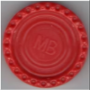
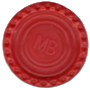
Gestion de l'égalité

diff --git a/visuel.py b/visuel.py
@@ -4,21 +4,22 @@ import depart
 # pygame setup
 pygame.init()
 screen = pygame.display.set_mode((699, 600))
-pygame.display.set_caption("My game")
-image = pygame.image.load("grille2.png").convert_alpha()
+pygame.display.set_caption("Puissance 4")
+image = pygame.image.load("grille.png").convert_alpha()
 pion_jaune = pygame.image.load("jaune.png").convert_alpha()
-pion_rouge = pygame.image.load("rouge-bg.png").convert_alpha()
+pion_rouge = pygame.image.load("rouge.png").convert_alpha()
 clock = pygame.time.Clock()
 
 running = True
 pressed = False
 
 joueur = 1
+nb_coups = 0
+bon_coup = True
 egalite = False
 a_un_gagnant = False
-bon_coup = True
-nb_coups = 0
 plateau_jeu = depart.initialiser_plateau()
+
 
 def afficher(plateau):
     for lig in range(6):
@@ -29,6 +30,7 @@ def afficher(plateau):
                 screen.blit(pion_jaune, (col*100 + 5, lig*100 + 5))
             else:
                 screen.blit(pion_rouge, (col*100 + 5, lig*100 + 5))
+
 
 while running:
     screen.blit(image, (0, 0))
@@ -51,6 +53,10 @@ while running:
             nb_coups += 1
             if nb_coups == 42:
                 egalite = True
+                print("######################################")
+                print("# Egalité ! Bravo aux deux joueurs ! #")
+                print("######################################")
+                pygame.display.set_caption("Bravo aux deux joueurs !")
             
             if depart.est_gagnant(plateau_jeu, col, joueur):
                 a_un_gagnant = True
@@ -58,17 +64,18 @@ while running:
                     print("#######################")
                     print("# Bravo au joueur 1 ! #")
                     print("#######################")
+                    pygame.display.set_caption("Bravo au joueur 1 !")
                 else:
                     print("#######################")
                     print("# Bravo au joueur 2 ! #")
                     print("#######################")
+                    pygame.display.set_caption("Bravo au joueur 2 !")
         
             if joueur == 1:
                 joueur = 2
             else:
                 joueur = 1
         
-    
     afficher(plateau_jeu)
         
     # flip() the display to put your work on screen

diff --git a/depart.py b/depart.py
@@ -50,8 +50,7 @@ def est_gagnant(plateau, col, joueur):
     Fonction qui renvoie le gagnant s'il y en a un avec le dernier coup il faut regarder
     horizontalement, verticalement et sur les diagonales.
     Fonction qui pourra sûrement être amélioré et rendu plus efficace/optimisé
-    """ 
-    # Si la dernière case a été atteinte et qu'il n'y a pas eu de gagnant dire qu'il y a eu égalité
+    """
     total_joueur = 1
     ligne = ligne_coup(plateau, col)
     
@@ -120,7 +119,6 @@ def est_gagnant(plateau, col, joueur):
     return False
 
 # def main():
-#     # Améliorer le visuel avec pygame
 #     # Faire quelque chose pour demander si les joueurs veulent bien donner leur prénom
 #     # Peut-être faire un bot avec lequel on peut jouer contre (plusieurs niveaux ?)
 
